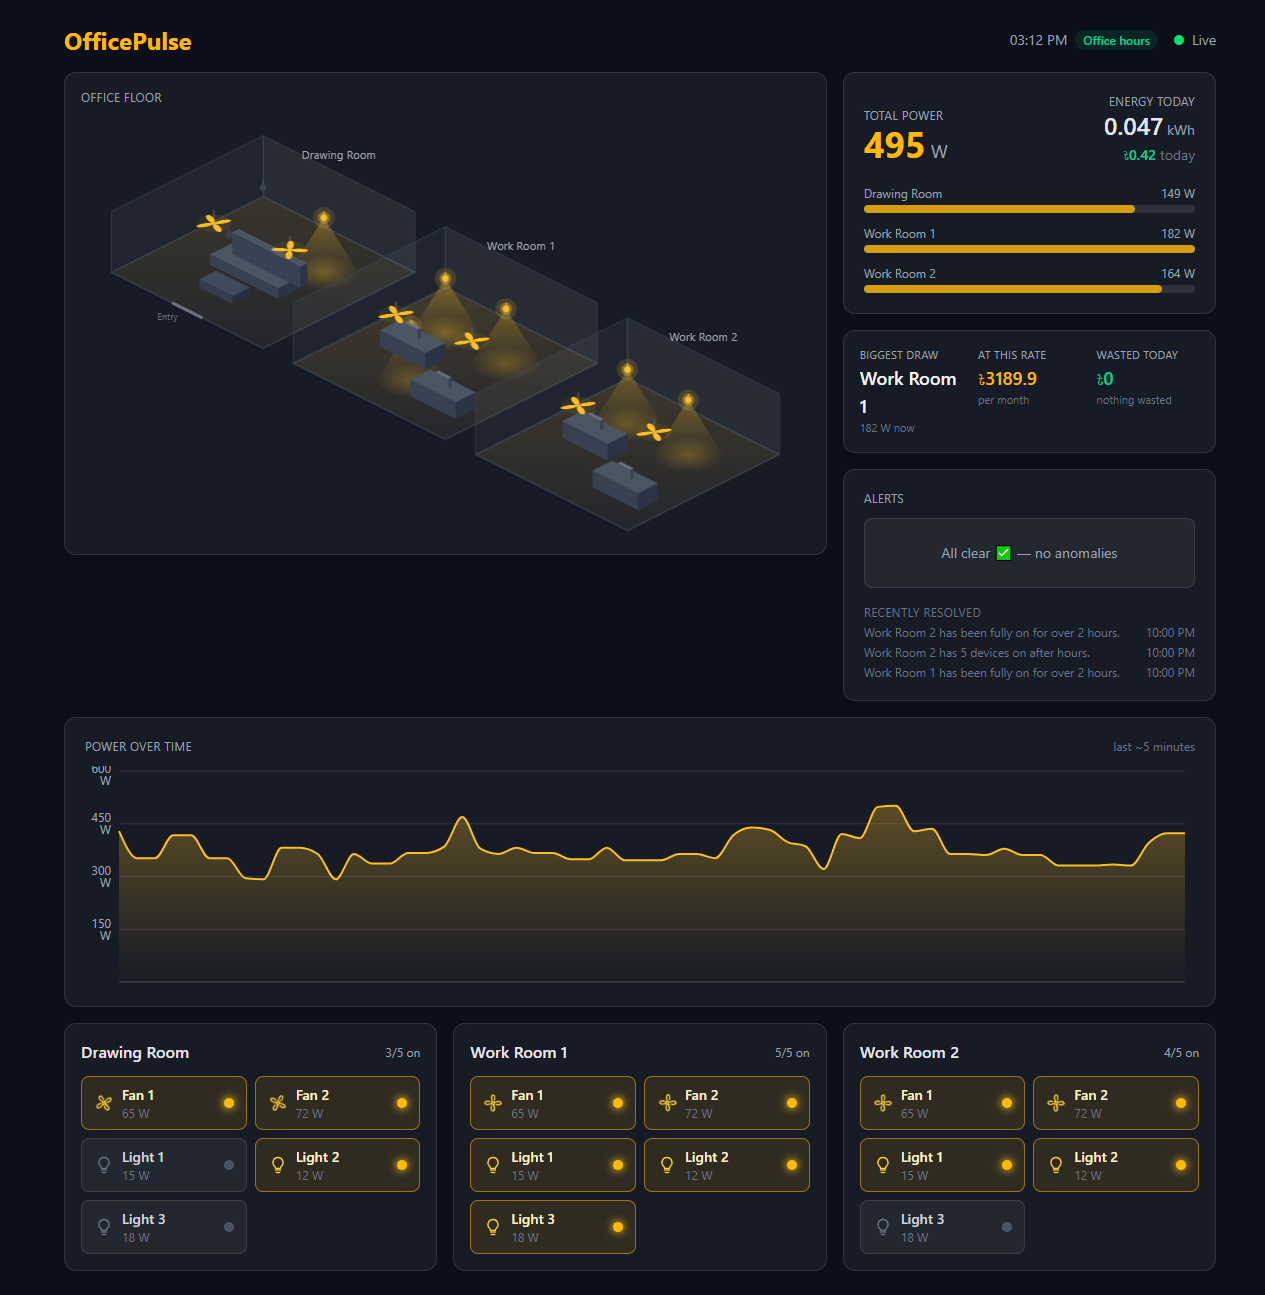
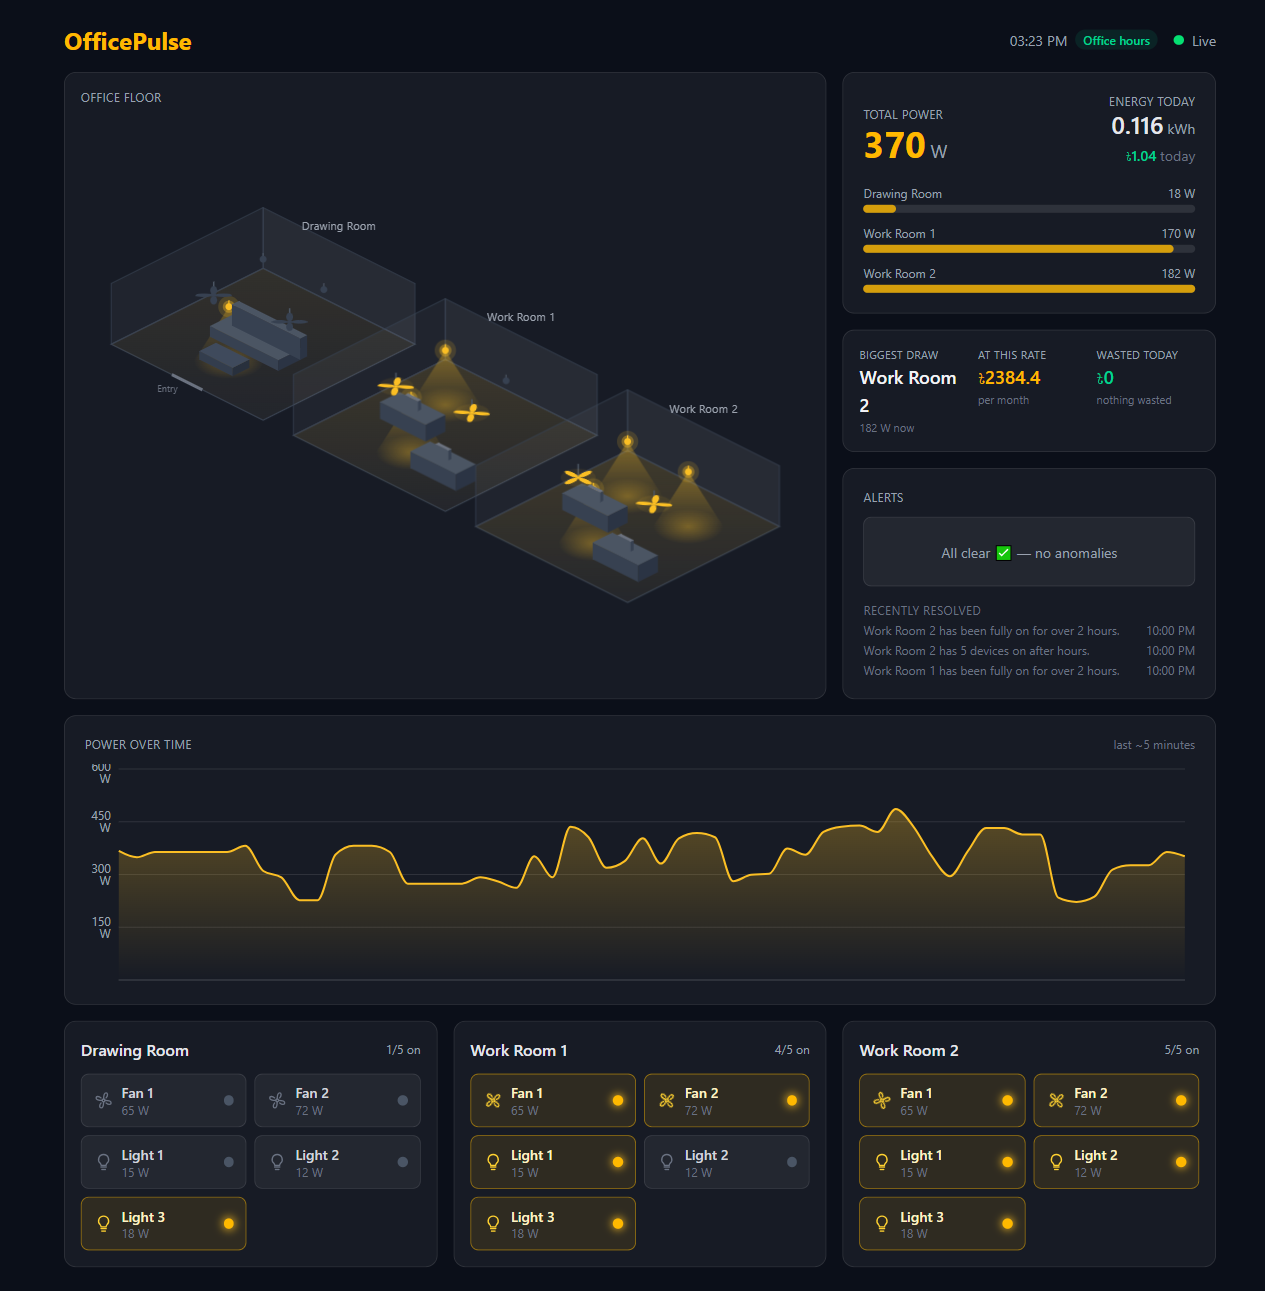
fix(dashboard): center office map to remove grid stretch gap

diff --git a/dashboard/src/components/OfficeMap.jsx b/dashboard/src/components/OfficeMap.jsx
@@ -195,9 +195,10 @@ function IsoRoom({ room, index, devices, alerted }) {
 
 export default function OfficeMap({ devices, alertRooms = [] }) {
   return (
-    <section className="rounded-xl border border-white/10 bg-white/5 p-4">
+    <section className="flex h-full flex-col rounded-xl border border-white/10 bg-white/5 p-4">
       <h2 className="mb-2 text-xs uppercase tracking-wide text-gray-400">Office floor</h2>
-      <svg viewBox="0 0 960 560" className="w-full" role="img" aria-label="Isometric office floor map">
+      <div className="flex flex-1 items-center">
+        <svg viewBox="0 0 960 560" className="w-full" role="img" aria-label="Isometric office floor map">
         <defs>
           <radialGradient id="iso-pool">
             <stop offset="0%" stopColor={AMBER} stopOpacity={0.35} />
@@ -224,7 +225,8 @@ export default function OfficeMap({ devices, alertRooms = [] }) {
             />
           ))}
         </g>
-      </svg>
+        </svg>
+      </div>
     </section>
   );
 }